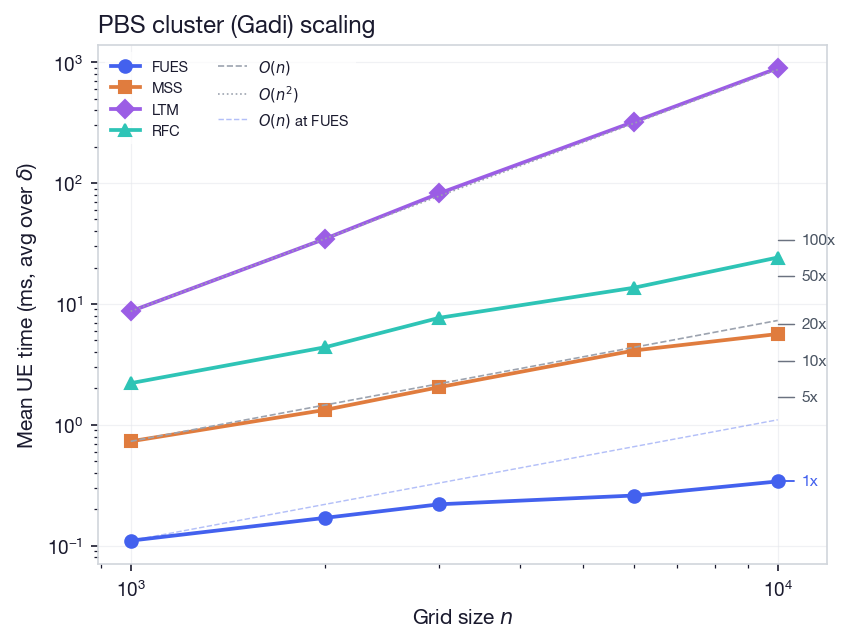
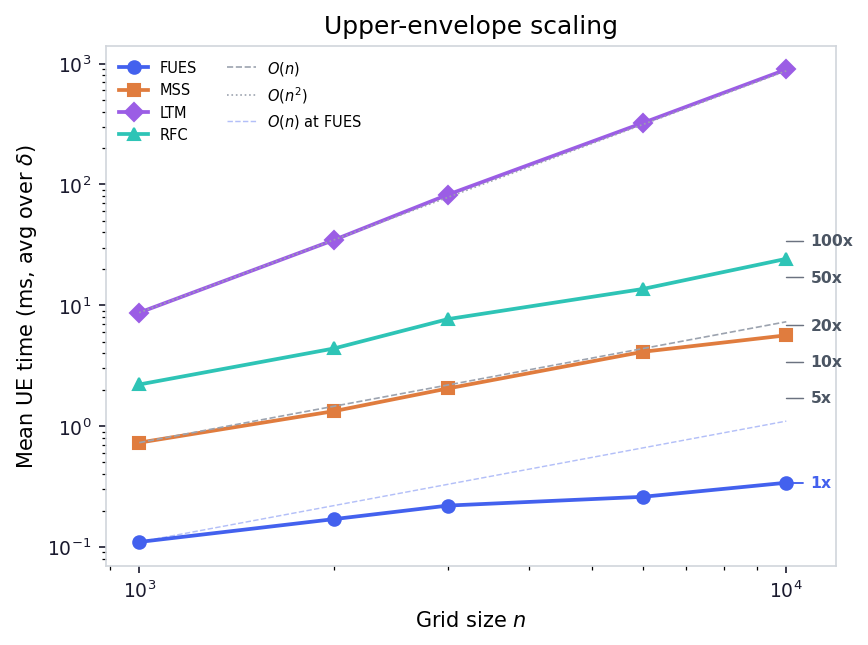
Rename plot title to 'Upper-envelope scaling'
Made-with: Cursor

diff --git a/examples/retirement/notebooks/nb_pbs.py b/examples/retirement/notebooks/nb_pbs.py
@@ -133,7 +133,7 @@ def plot_pbs_scaling(path, ax=None):
 
     ax.set_xlabel('Grid size $n$')
     ax.set_ylabel('Mean UE time (ms, avg over $\\delta$)')
-    ax.set_title('PBS cluster (Gadi) scaling')
+    ax.set_title('Upper-envelope scaling')
     _style_nb_ax(ax)
     ax.legend(fontsize=7, framealpha=0.7, edgecolor='none', ncol=2,
               loc='upper left')
